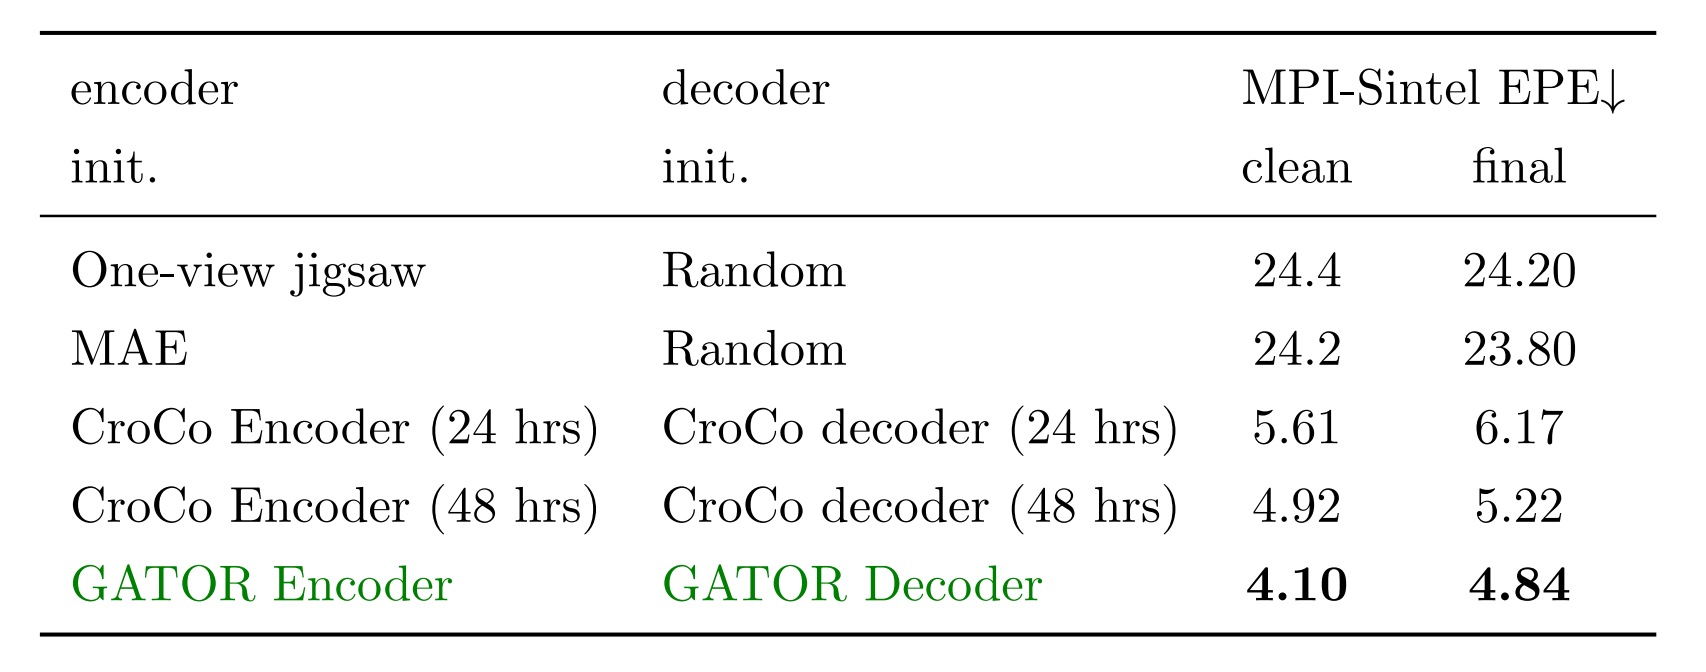
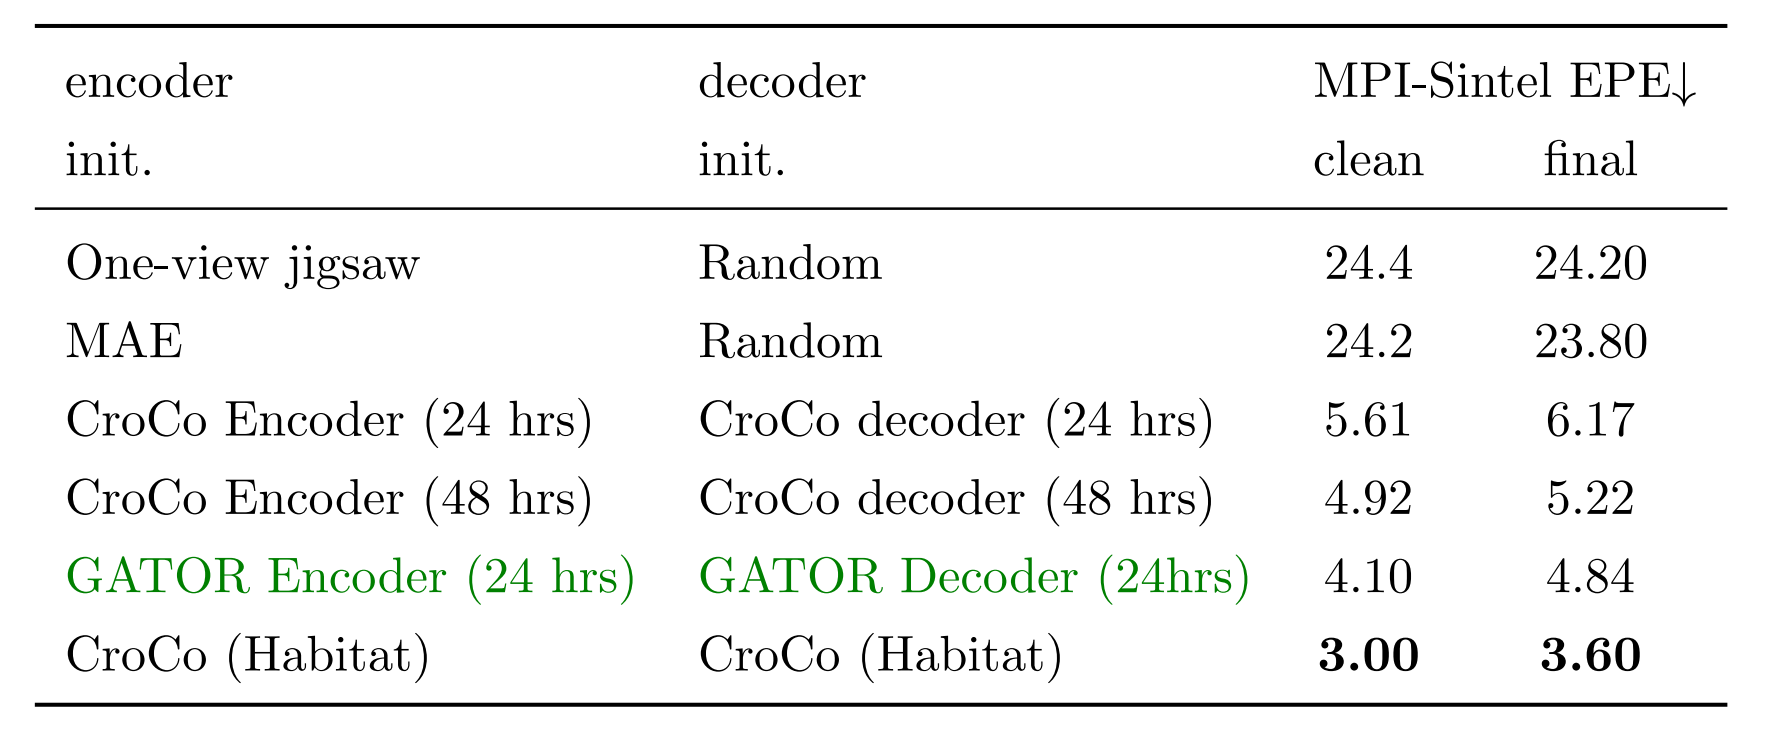
Modify introduction

diff --git a/index.html b/index.html
@@ -264,19 +264,27 @@
             <p>
 
               Self-supervised learning has become a standard paradigm for learning visual representations 
-              from unlabeled data. Methods such as DINO <a href="https://arxiv.org/abs/2104.14294">[3]</a> and MAE <a href="https://arxiv.org/abs/2111.06377">[4]</a> achieve strong results through self-distillation and masked image reconstruction, respectively. 
-              Masked modeling has further been extended to two-view pretraining with CroCo <a href="https://doi.org/10.48550/arXiv.2210.10716" >[2]</a>, which shows strong performance on 3D vision tasks. 
-              Another successful self-supervised paradigm is jigsaw puzzle solving, but its use for 3D computer vision remains largely unexplored.
+              from unlabeled data. Methods such as DINO <a href="https://arxiv.org/abs/2104.14294">[3]</a> and MAE <a href="https://arxiv.org/abs/2111.06377">[4]</a> 
+              achieve strong results through self-distillation and masked image reconstruction, respectively. 
+              Masked modeling has further been extended to two-view pretraining with CroCo <a href="https://doi.org/10.48550/arXiv.2210.10716" >[2]</a>, 
+              which shows strong performance on 3D vision tasks. 
             </p>
             <p>  
+              Another successful self-supervised paradigm is jigsaw puzzle solving <a href="https://arxiv.org/abs/1603.09246">[5]</a>.
+              Yet, its use as a pretraining method for multi-view downstream tasks remains largely unexplored.
               In this work, we investigate whether a two-view jigsaw objective can serve as an effective pretraining strategy 
               for 3D tasks such as image matching and optical flow. 
-              Given two images of the same scene, we keep one view unchanged and shuffle the patches of the other. 
+            <p>
+              In this work we present GATOR, a jigsaw based pretraining objective for multi-view models.
+              During pretraining, the model recieves two views of the same scene: 
+              we keep one view unchanged and shuffle the patches of the other. 
               The model is trained to recover the correct patch arrangement by exploiting the reference view, 
               thereby encouraging the learning of spatial structure and cross-view correspondences. 
-              Our approach is not formlauted as pixel-level prediction: instead, it formulates the pretraining objective as 
+              Our approach is not formulated as pixel-level prediction: instead, it formulates the pretraining objective as 
               a patch reordering problem. This objective still requires 3D understanding to be solved,
               but without wasting parameters for low-level detail reconstruction such as textures.
+              We also compare our model after finetuning on several downstream tasks against one-view 
+              and multi-view methods, showing that GATOR achieves competitive results in 3D vision downstream tasks.
             </p>
           </div>
         </div>
@@ -568,7 +576,7 @@
               <br>
               <br>
               <p>
-                The following table shows the results obtained by finetuning the models on the MPI-Sintel + FlyingChairs datasets,
+                The following table shows the results obtained by finetuning the models on the MPI-Sintel + FlyingChairs datasets for 50 epochs.
                 The reported performance refers to the MPI-Sintel test set, 
                 which contains frames from two different scenes unseen during training.
               </p>
@@ -578,7 +586,10 @@
               The results show that GATOR is able to outperform all baselines, including CroCo, the toughest one.
               Surprisingly, GATOR's performance is better not only than CroCo pretrained with the same amount of compute (24 hours),
               but even than the one of CroCo pretrained with double the compute time. This result shown the effectiveness of
-              GATOR's representations and their efficient transferability to this task.
+              GATOR's representations and their efficient transferability to this task. For reference, in the last row of the table
+              we report the results from the original CroCo paper: their model is a ViT-base, pretrained for 2 weeks using four V100
+              and finetuned on a different dataset. Therefore, we report its performance for a complete overview, even if the comparison
+              with the other models is not fair. 
 
               <h3 class="title is-4" id="method">IV-E. Relative Pose Regression</h3>
 
@@ -939,6 +950,12 @@
                 “Masked autoencoders are scalable vision learners,” 2021.
                 
                 <a href="https://arxiv.org/abs/2111.06377">https://arxiv.org/abs/2111.06377</a>
+              </li>
+
+              <li>
+                M. Noroozi and P. Favaro, “Unsupervised learning of visual
+                representations by solving jigsaw puzzles,” 2017. [Online].
+                Available: <a href="https://arxiv.org/abs/1603.09246">https://arxiv.org/abs/1603.09246</a>
               </li>
 
               <!-- Add more references as needed -->